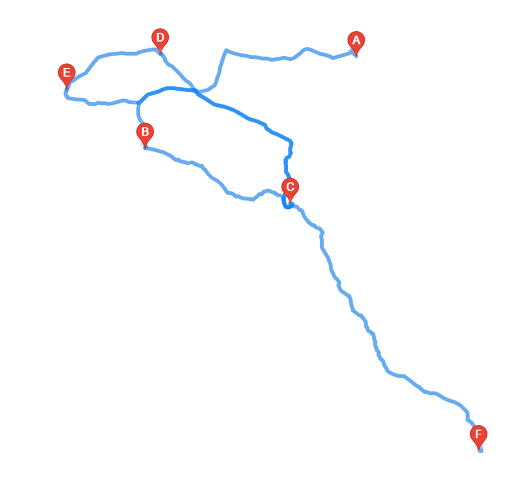
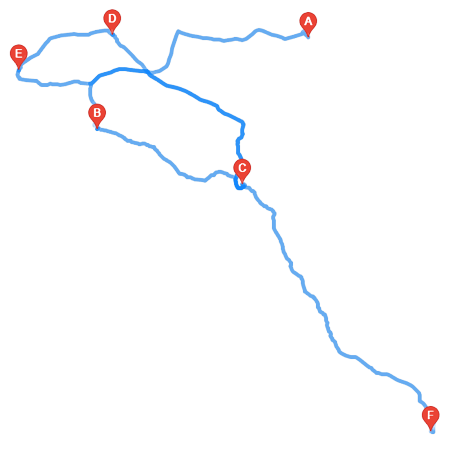
Zoom fix + nouvelle image

Changed region(s): [[0.0, 0.0, 0.732, 0.7625], [0.732, 0.7625, 0.976, 0.9455]]

diff --git a/index.html b/index.html
@@ -75,6 +75,8 @@
           transform: translate(-50%, -50%);
           z-index: 1;
           pointer-events: none;
+          width: 330px;
+          height: 330px;
         " />
   </body>
 </body>
